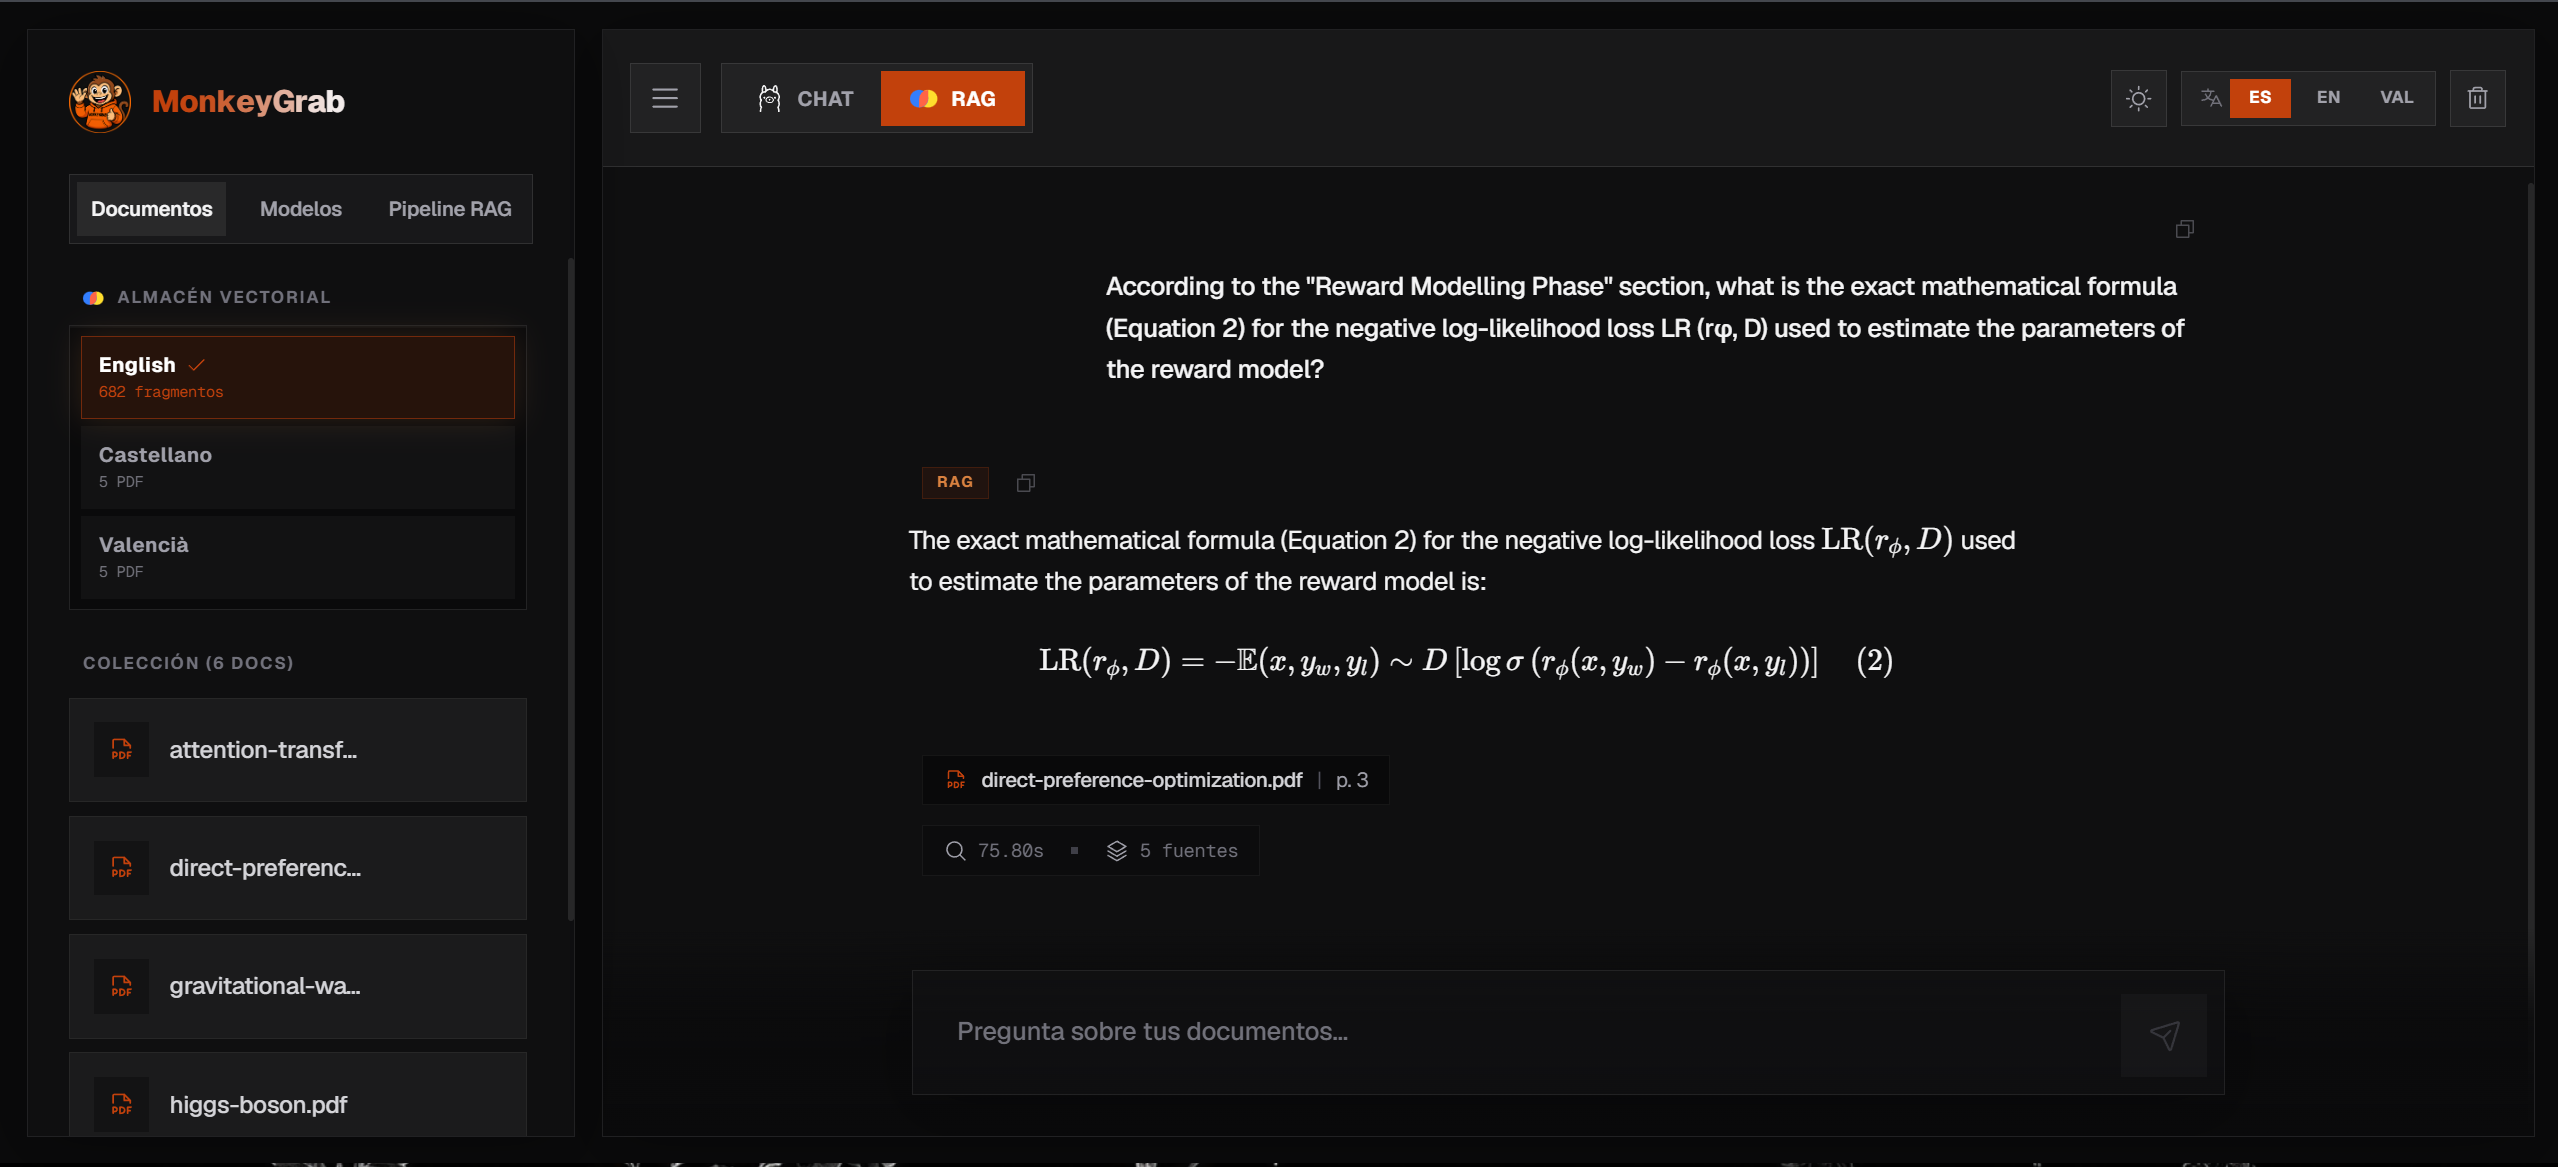
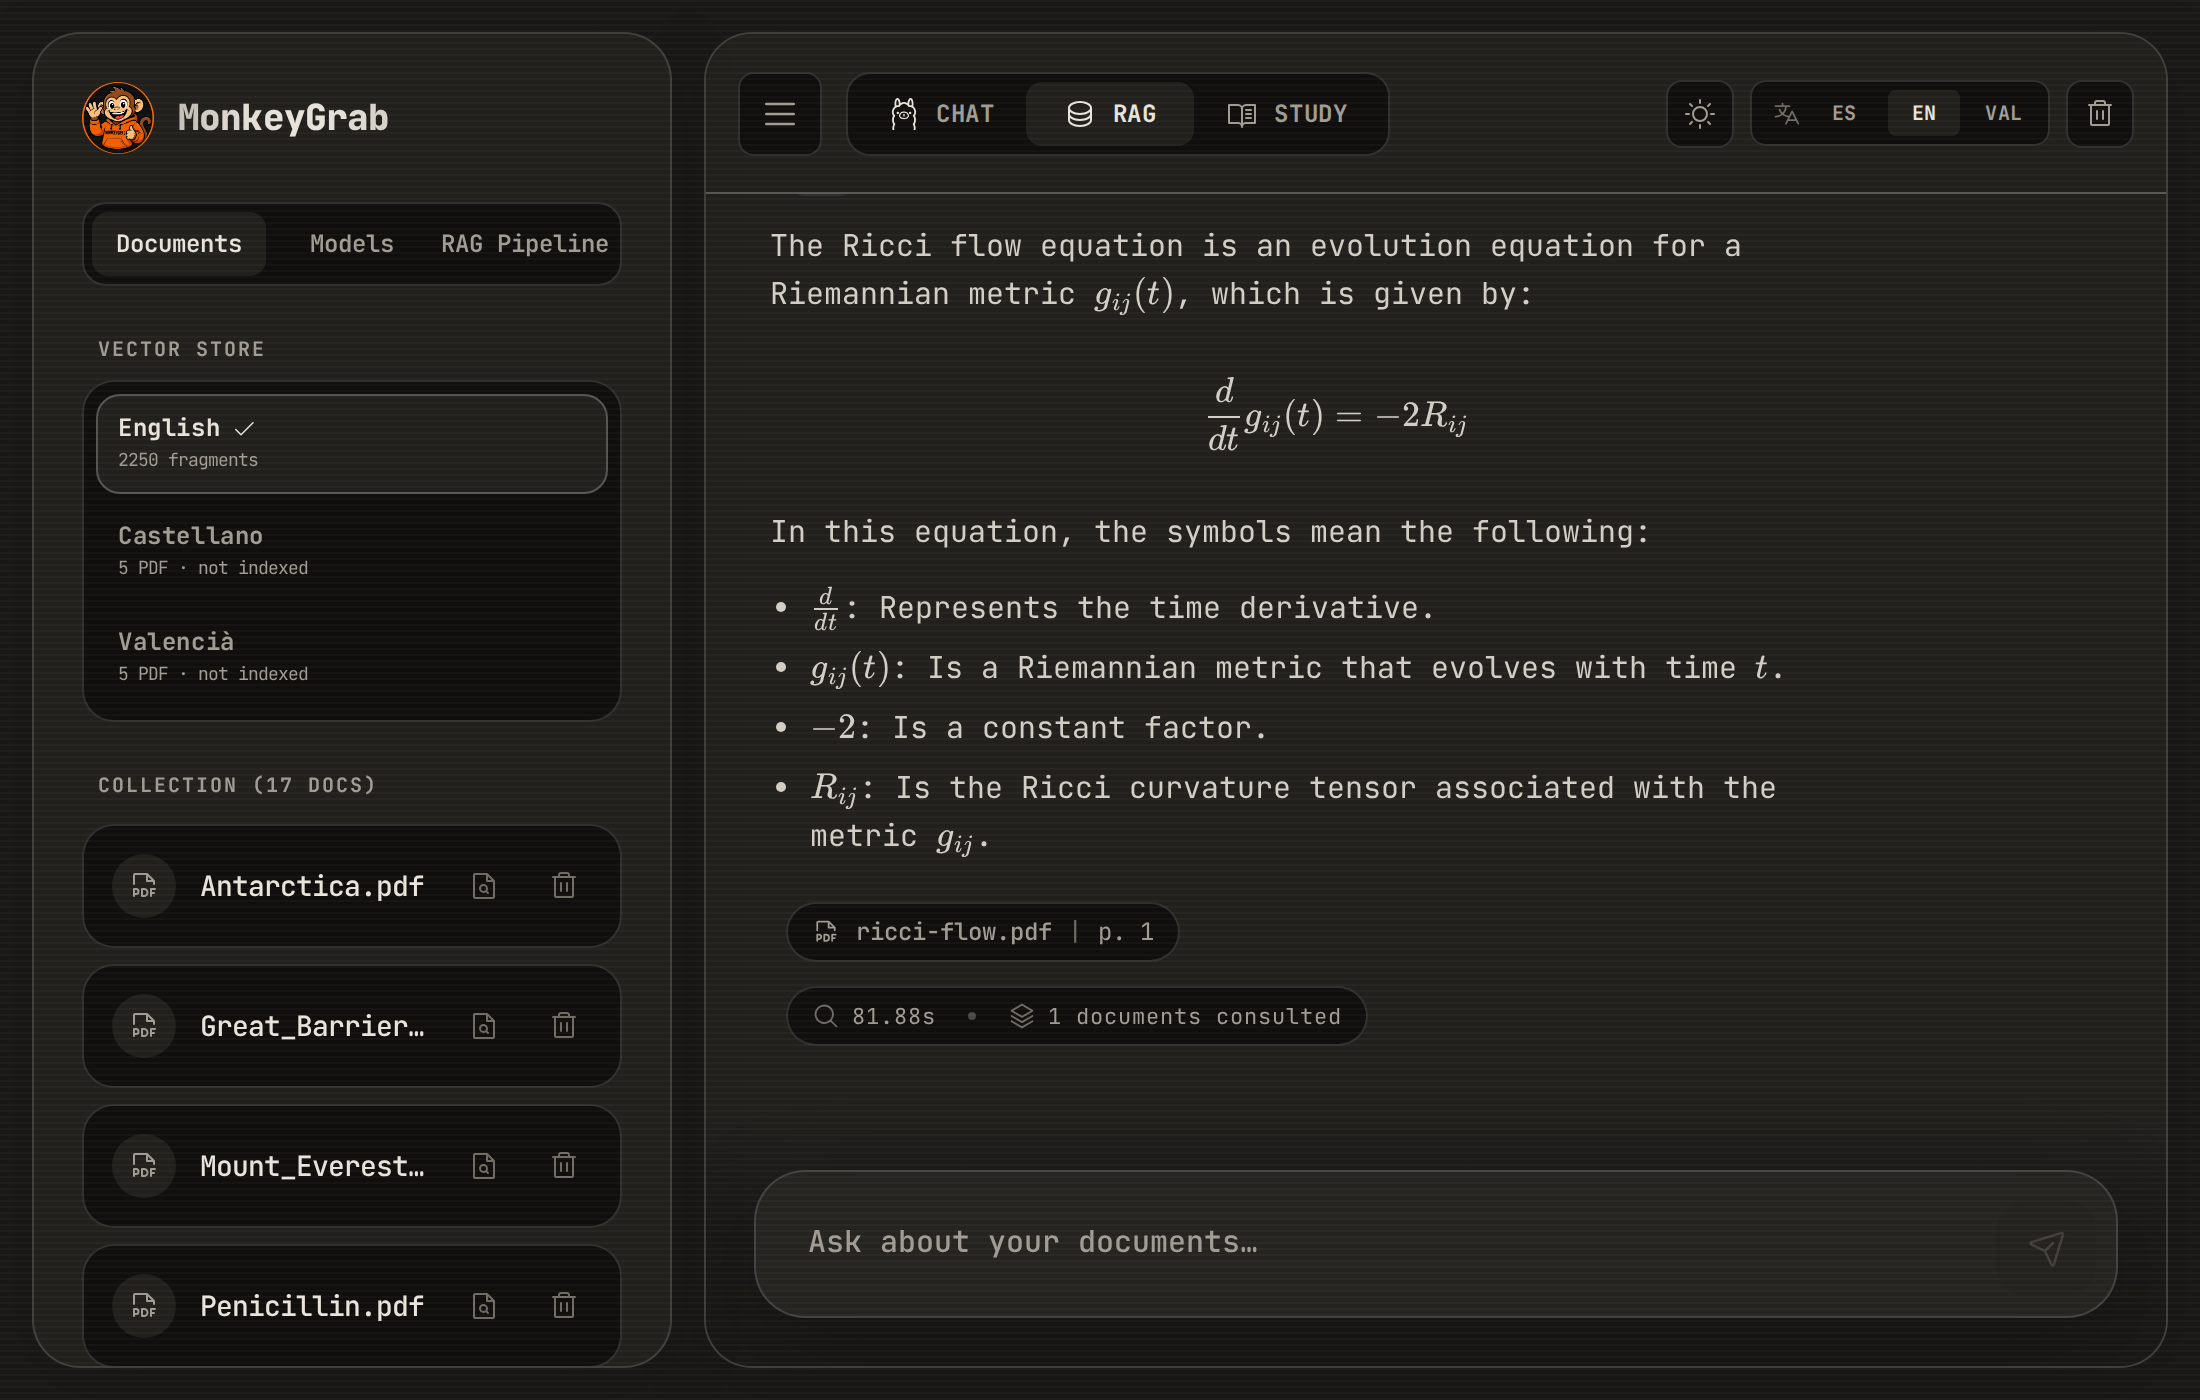
Re-record the README demo against the current UI (#560) (#585)
The video and the LaTeX screenshot predated the visual language, the
store selector and the PDF viewer. The demo is now an animated WebP
committed under assets/, so it renders inline on GitHub and is versioned
with the UI it shows instead of living as an attachment URL.

diff --git a/README.md b/README.md
@@ -50,13 +50,13 @@ web interface, and nothing leaves the machine.
 <summary><strong>See it in action</strong></summary>
 <br/>
 
-**Web interface**
+**Web interface**: four questions in RAG mode over the English store, each answered from a different document, then a citation opened in the PDF viewer. Waits play at 8x; the chip under each answer shows the real time on an 8 GB laptop GPU.
 
-https://github.com/user-attachments/assets/f5f8fa1d-b193-4f94-85c2-8f903afa2348
+<img width="1280" height="800" alt="MonkeyGrab answering questions over four documents and opening a cited PDF" src="assets/demo.webp" />
 
 **LaTeX rendering** (formulas via [KaTeX](https://katex.org/) in the web UI):
 
-<img width="918" height="563" alt="LaTeX rendering in the web UI" src="assets/latexRender.png" />
+<img width="1100" height="700" alt="LaTeX rendering in the web UI" src="assets/latexRender.png" />
 
 </details>
 
